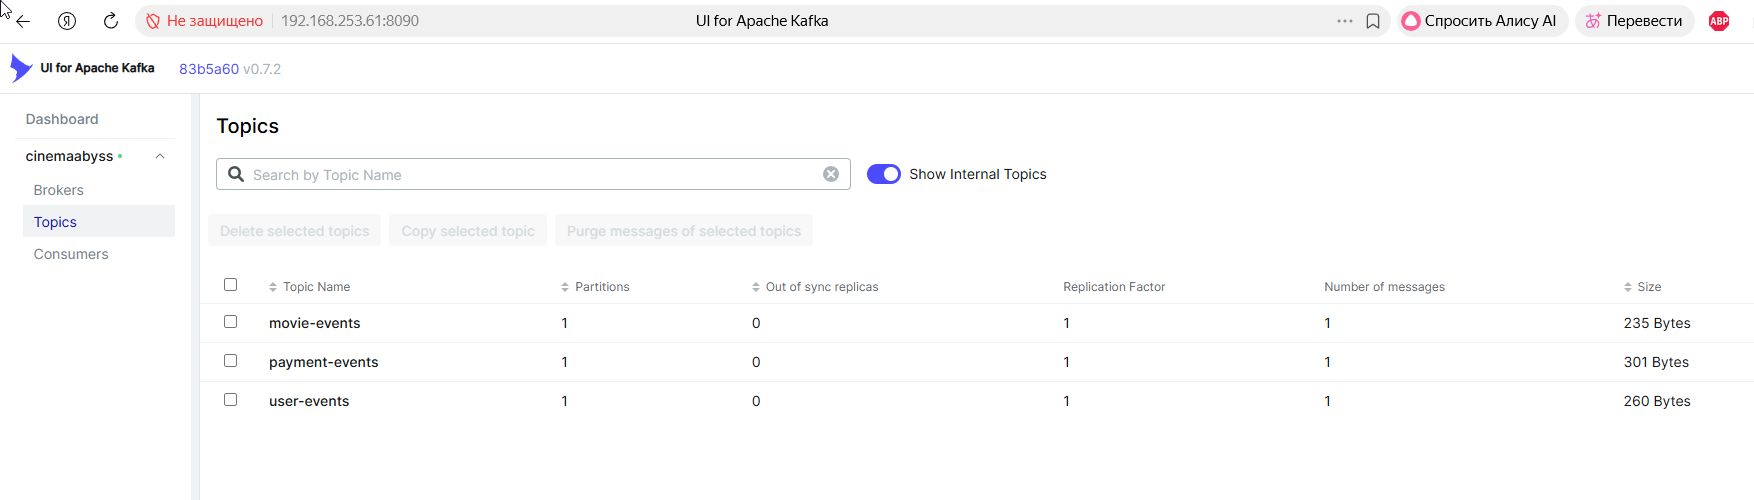
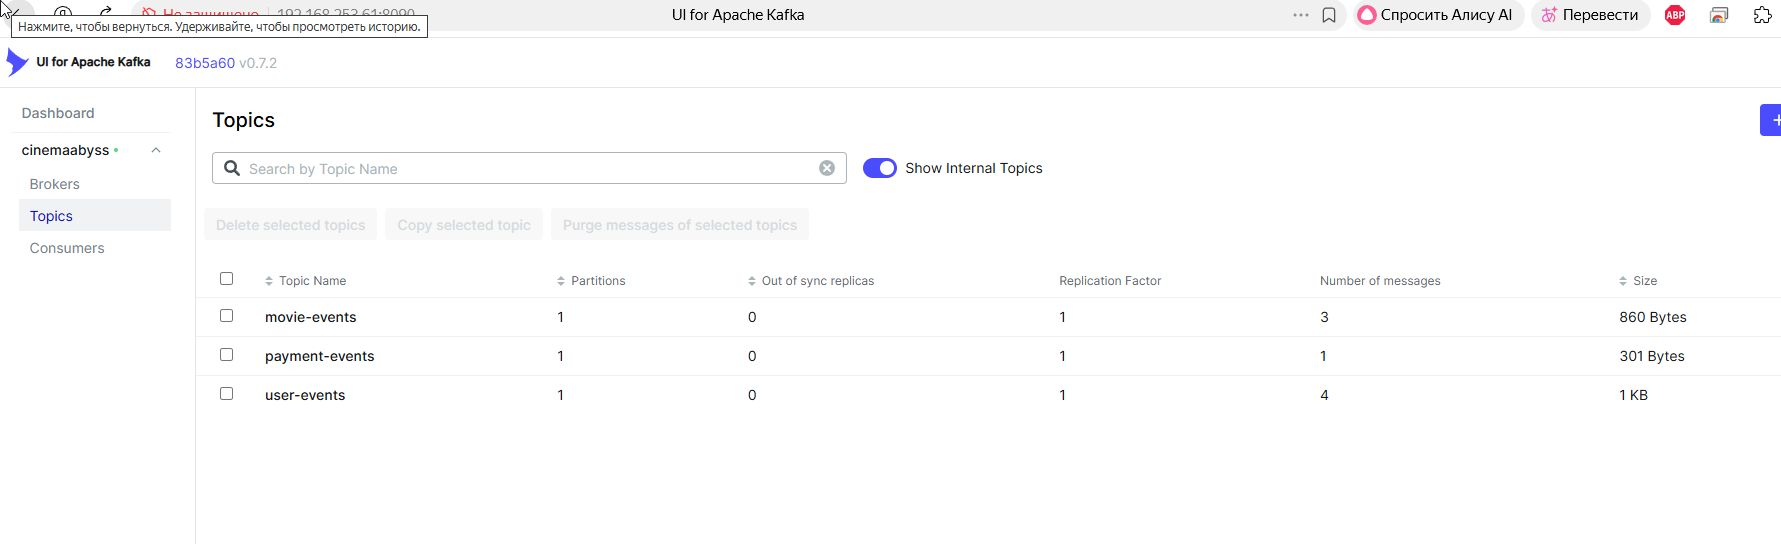
add screens to task2

diff --git a/Project_template.md b/Project_template.md
@@ -66,6 +66,8 @@
 
 ![Скрин тестов](./assets/task2_tests.jpg)
 ![Скрин топиков](./assets/task2_kafkaTopics.jpg)
+![Скрин топика1](./assets/task2_userKafkaTopic.jpg)
+![Скрин топика2](./assets/task2_movieKafkaTopic.jpg)
 
 # Задание 3
 
